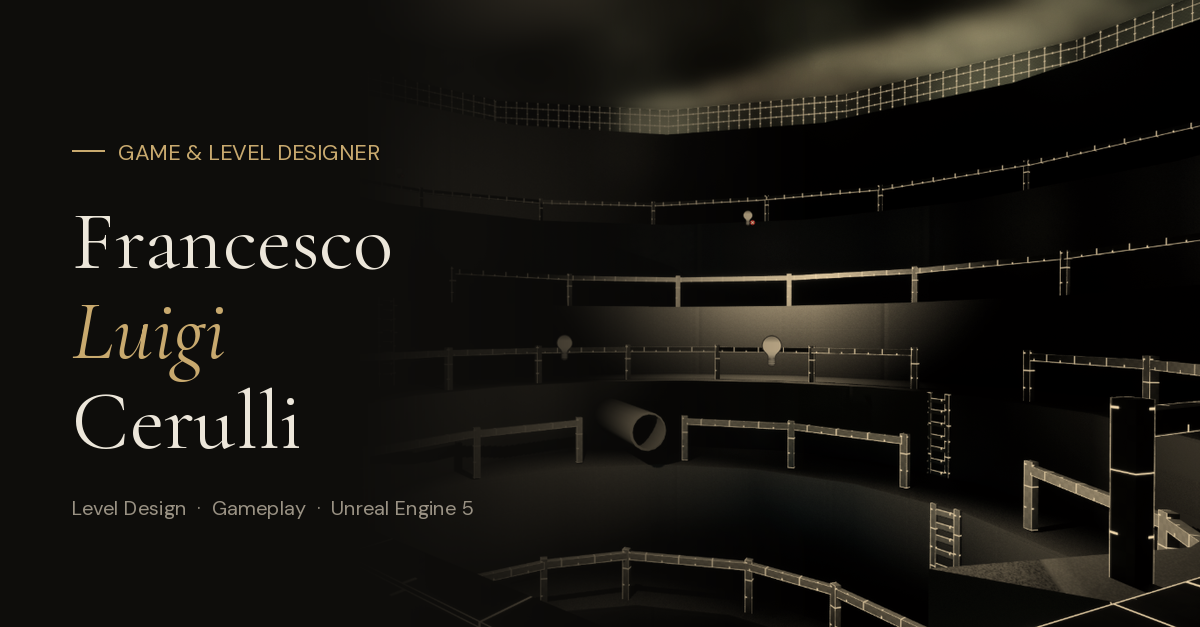
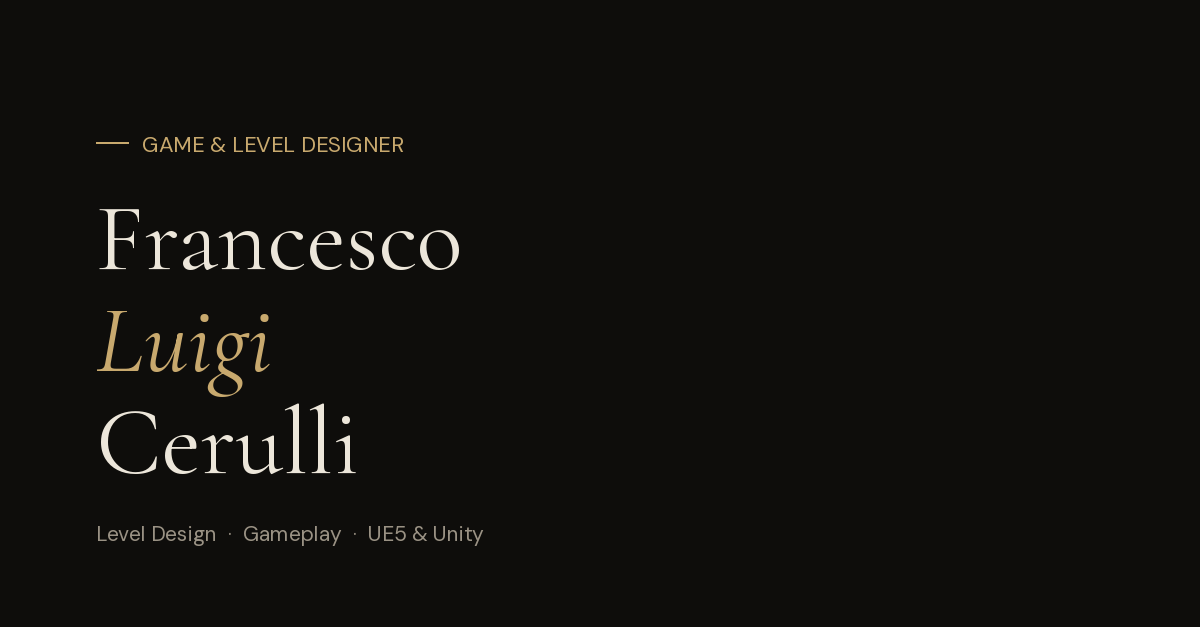
Use plain black cover for link preview
Claude-Session: https://claude.ai/code/session_012E91ozccbRpodKWTtngNAk

diff --git a/index.html b/index.html
@@ -10,7 +10,7 @@
 <meta property="og:title" content="Francesco Luigi Cerulli — Game &amp; Level Designer">
 <meta property="og:description" content="Level design, gameplay e sistemi in Unreal Engine 5 e Unity. Scopri i miei progetti.">
 <meta property="og:url" content="https://francesco-cerulli.github.io/francescoluigicerulli.github.io/">
-<meta property="og:image" content="https://francesco-cerulli.github.io/francescoluigicerulli.github.io/og-cover.png">
+<meta property="og:image" content="https://francesco-cerulli.github.io/francescoluigicerulli.github.io/og-cover.png?v=2">
 <meta property="og:image:width" content="1200">
 <meta property="og:image:height" content="627">
 <meta property="og:image:alt" content="Francesco Luigi Cerulli — Game &amp; Level Designer">
